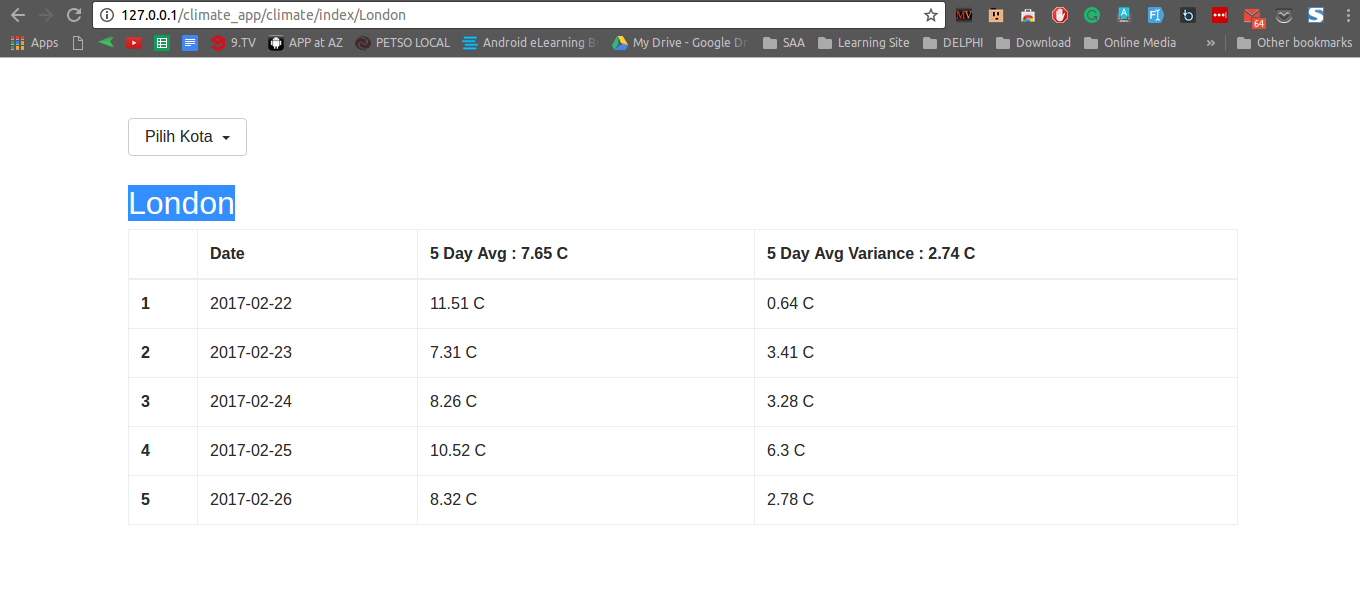
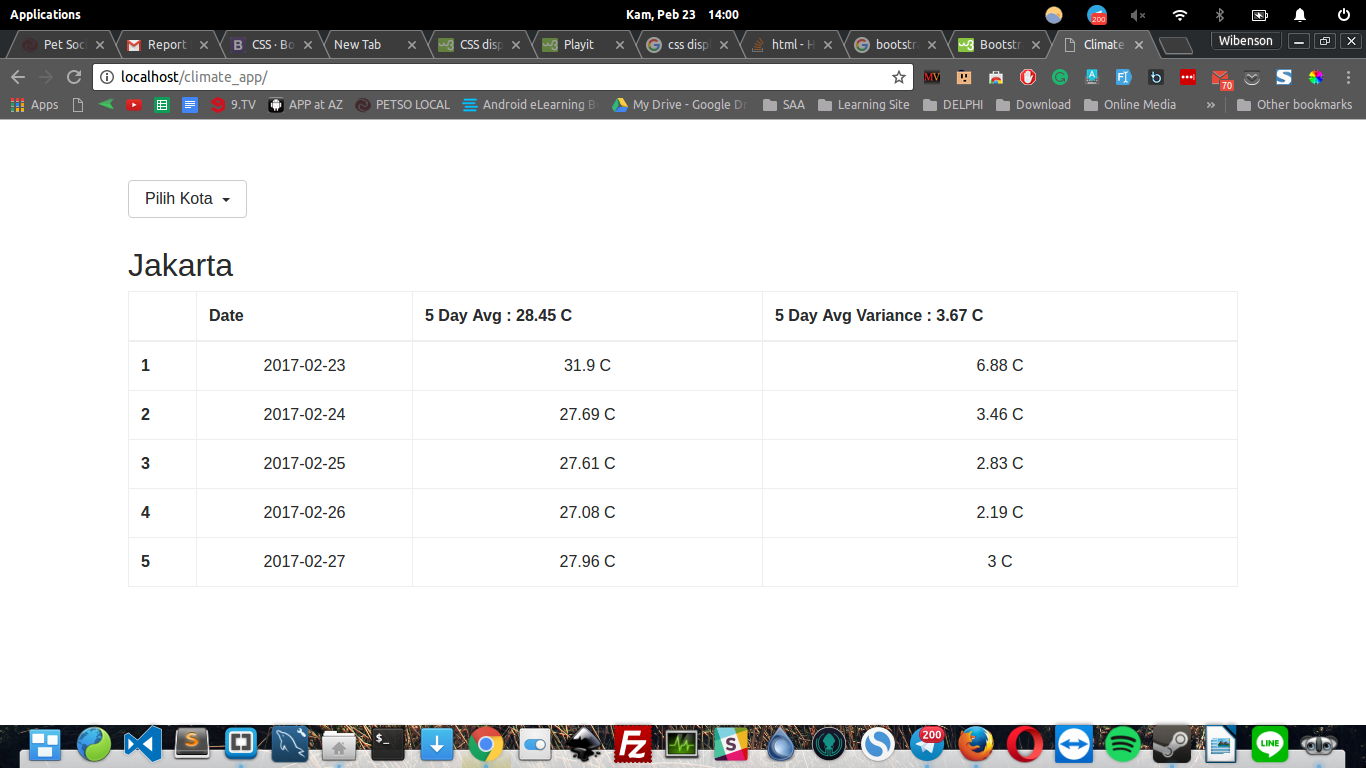
v0.4 - Change screenshot

diff --git a/README.md b/README.md
@@ -5,3 +5,5 @@ Not too fancy as been told and it works
 
 v01 : The app is running
 v02 : Add some explanation to the code
+v03 : re-test, fix some bug at model
+v04 : change screenshot
